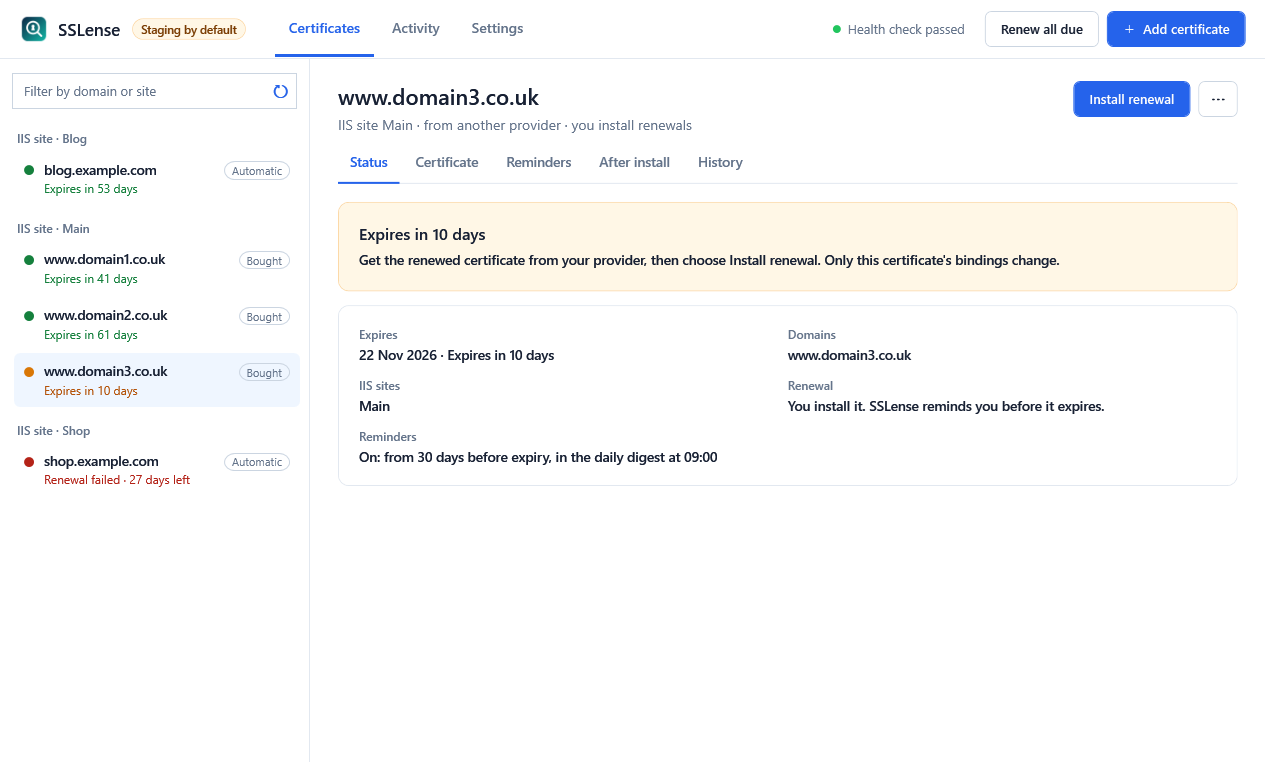
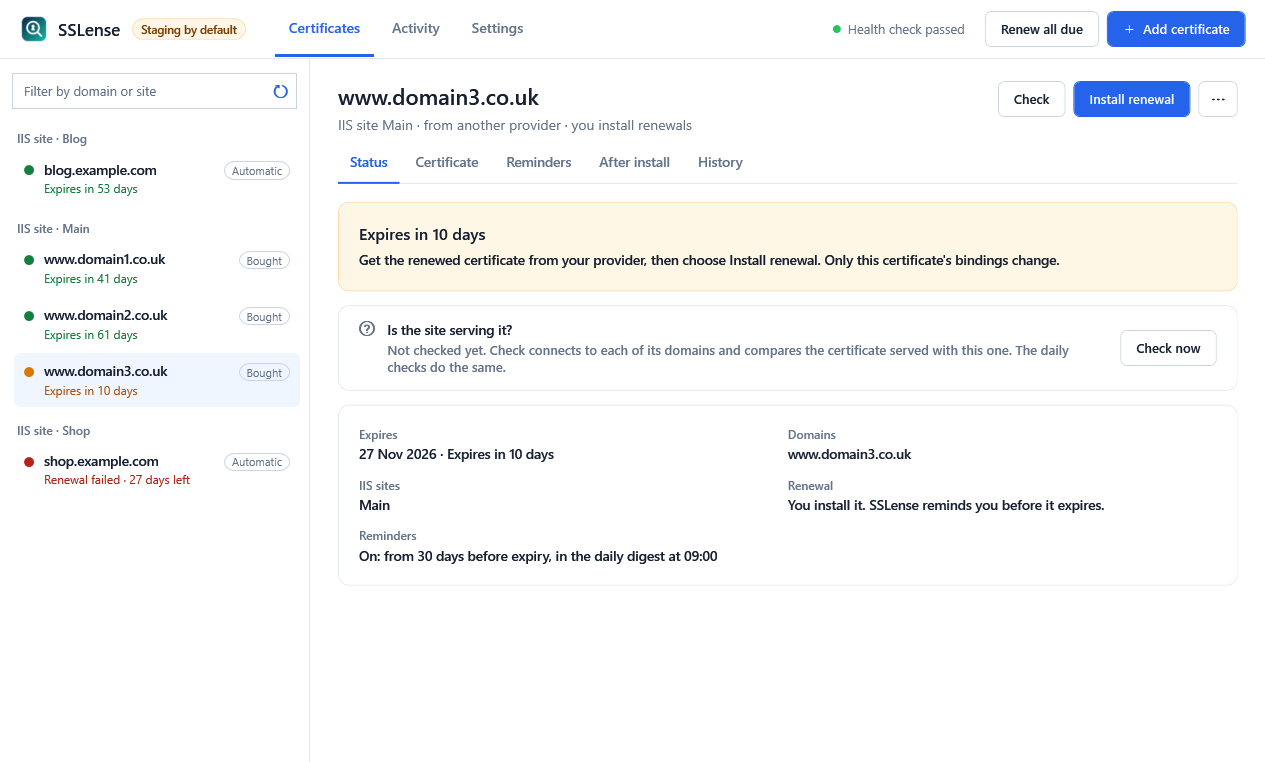
Update the README screenshots to the new window
The README showed the old side-menu window for Settings and Add
certificate (free and automatic), and the certificate view without Check.
The images are now rendered by the screenshot test from sample
certificates, and Install renewal has its own.

The screenshot test now waits for the certificate and its reminders to
load before saving an image, waits for each reminder choice to be saved
rather than for the busy flag, which could still be clear, and gives
Settings the notification and reminder data it reads, so it shows no
error. Quick start says Check, not pre-flight checks.

diff --git a/tests/SSLense.Tests/Gui/GuiScreenshotTests.cs b/tests/SSLense.Tests/Gui/GuiScreenshotTests.cs
@@ -54,12 +54,12 @@ public sealed class GuiScreenshotTests(ITestOutputHelper output)
             Save(window, folder, "01-certificates-summary");
 
             certificates.SelectedCertificate = certificates.Certificates.Single(row => row.Title == "www.domain3.co.uk");
-            Settle();
+            WaitForDetails(certificates.Details);
             Assert.Equal("Main/www.domain3.co.uk", certificates.Details.SelectedSite);
             Save(window, folder, "02-certificate-bought-due");
 
             certificates.SelectedCertificate = certificates.Certificates.Single(row => row.Title == "shop.example.com");
-            Settle();
+            WaitForDetails(certificates.Details);
             Save(window, folder, "03-certificate-renewal-failed");
 
             SelectSection(window, "Certificate");
@@ -69,11 +69,11 @@ public sealed class GuiScreenshotTests(ITestOutputHelper output)
             SelectSection(window, "Reminders");
             Save(window, folder, "05b-reminders-section");
             ClickReminder(window, 3);
-            WaitFor(() => !certificates.Details.IsBusy);
+            WaitFor(() => !certificates.Details.IsBusy && ReminderList(window).SelectedIndex == 3 && certificates.Details.ReminderState.Contains("Off until", StringComparison.Ordinal));
             Assert.Equal(3, ReminderList(window).SelectedIndex);
             Assert.Contains("Off until", certificates.Details.ReminderState, StringComparison.Ordinal);
             ClickReminder(window, 1);
-            WaitFor(() => !certificates.Details.IsBusy);
+            WaitFor(() => !certificates.Details.IsBusy && ReminderList(window).SelectedIndex == 1 && certificates.Details.ReminderState.Contains("Snoozed until", StringComparison.Ordinal));
             Assert.Equal(1, ReminderList(window).SelectedIndex);
             Assert.Contains("Snoozed until", certificates.Details.ReminderState, StringComparison.Ordinal);
             Assert.Null(certificates.Details.ErrorMessage);
@@ -111,6 +111,10 @@ public sealed class GuiScreenshotTests(ITestOutputHelper output)
             provider.GetRequiredService<SettingsViewModel>().ShowSection("Notifications");
             Settle();
             Save(window, folder, "07b-settings-notifications");
+            provider.GetRequiredService<SettingsViewModel>().ShowSection("Reminders");
+            Settle();
+            Assert.Null(provider.GetRequiredService<SettingsViewModel>().ErrorMessage);
+            Save(window, folder, "07e-settings-reminders");
             provider.GetRequiredService<SettingsViewModel>().ShowSection("Certificate authorities");
             Settle();
             Save(window, folder, "07c-settings-authorities");
@@ -158,6 +162,10 @@ public sealed class GuiScreenshotTests(ITestOutputHelper output)
         });
         output.WriteLine($"Screens saved to {folder}");
     }
+
+    /// <summary>Waits until the selected certificate and its reminders have loaded, so an image shows them.</summary>
+    private static void WaitForDetails(CertificateDetailsViewModel details) =>
+        WaitFor(() => !details.IsBusy && !string.IsNullOrEmpty(details.ReminderState));
 
     private static ListBox ReminderList(Window window) =>
         Find<ListBox>(window).Single(list => list.IsVisible && System.Windows.Automation.AutomationProperties.GetName(list) == "Reminders for this certificate");
@@ -255,6 +263,8 @@ public sealed class GuiScreenshotTests(ITestOutputHelper output)
         // Saves like the real store: the next overview shows the new setting.
         reminders.Setup(value => value.GetOverviewAsync(It.IsAny<CancellationToken>()))
             .Returns(async () => { await Task.Delay(40); return new ReminderOverview(new ReminderConfig(), records.ToArray(), null); });
+        reminders.Setup(value => value.GetOutlookAsync(It.IsAny<CancellationToken>()))
+            .ReturnsAsync(() => new ReminderOutlook(Now.AddMinutes(-20), Now.Date.AddDays(1).AddHours(9), Now.Date.AddDays(1).AddHours(9), []));
         reminders.Setup(value => value.SetCertificateRemindersAsync(It.IsAny<string>(), It.IsAny<ReminderMode>(), It.IsAny<int?>(), It.IsAny<CancellationToken>()))
             .Callback<string, ReminderMode, int?, CancellationToken>((name, mode, days, _) =>
             {
@@ -307,8 +317,15 @@ public sealed class GuiScreenshotTests(ITestOutputHelper output)
         ]);
         services.AddSingleton(dns.Object);
         var settings = new Mock<ISettingsService> { DefaultValue = DefaultValue.Mock };
-        settings.Setup(value => value.GetAsync(It.IsAny<CancellationToken>())).ReturnsAsync(new AppConfig());
+        settings.Setup(value => value.GetAsync(It.IsAny<CancellationToken>())).ReturnsAsync(new AppConfig { DefaultEmail = "ops@example.com" });
         services.AddSingleton(settings.Object);
+        var notifications = new Mock<SSLense.Core.Notifications.INotificationSettingsService> { DefaultValue = DefaultValue.Mock };
+        notifications.Setup(value => value.GetOverviewAsync(It.IsAny<CancellationToken>())).ReturnsAsync(
+            new SSLense.Core.Notifications.NotificationOverview(
+                new SSLense.Core.Notifications.EmailOverview("smtp.example.com", 587, SmtpSecurity.StartTls, SmtpAuthentication.Password,
+                    "sslense@example.com", true, "sslense@example.com", ["ops@example.com"]),
+                [], null, true, false));
+        services.AddSingleton(notifications.Object);
         var health = new Mock<IHealthCheckService> { DefaultValue = DefaultValue.Mock };
         health.Setup(value => value.RunAsync(It.IsAny<IProgress<SSLense.Core.ProgressEvent>>(), It.IsAny<CancellationToken>())).ReturnsAsync(
         [
@@ -323,7 +340,7 @@ public sealed class GuiScreenshotTests(ITestOutputHelper output)
         services.AddSingleton(deployment.Object);
         services.AddSingleton(health.Object);
 
-        var configured = new HashSet<Type> { typeof(IRenewalService), typeof(ICertificateManagementService), typeof(IReminderService), typeof(IDeploymentService), typeof(IHealthCheckService), typeof(ISettingsService), typeof(IImportedCertificateService), typeof(IPendingRequestStore), typeof(IIisService), typeof(SSLense.Core.Acme.ICertificateAuthorityService), typeof(SSLense.Core.DnsValidation.IDnsProviderService) };
+        var configured = new HashSet<Type> { typeof(IRenewalService), typeof(ICertificateManagementService), typeof(IReminderService), typeof(IDeploymentService), typeof(IHealthCheckService), typeof(ISettingsService), typeof(SSLense.Core.Notifications.INotificationSettingsService), typeof(IImportedCertificateService), typeof(IPendingRequestStore), typeof(IIisService), typeof(SSLense.Core.Acme.ICertificateAuthorityService), typeof(SSLense.Core.DnsValidation.IDnsProviderService) };
         var coreServices = typeof(MainViewModel).Assembly.GetTypes()
             .Where(type => type.Namespace == typeof(MainViewModel).Namespace && type.IsClass && !type.IsAbstract)
             .SelectMany(type => type.GetConstructors())

diff --git a/README.md b/README.md
@@ -28,7 +28,7 @@ SSLense is a Windows application for IIS administrators. It gets free Let's Encr
 1. Download the latest `SSLense-<version>-x64.msi` from [Releases](https://github.com/panchalvimaldev/sslense/releases) and run it on the IIS server. It installs the desktop app, the command line, and the renewal service. No separate .NET installation is needed. Releases are not code-signed yet, so Windows SmartScreen may warn; each release lists a SHA-256 checksum to verify the download.
 2. Open **SSLense** from the Start menu.
 3. Then either:
-   - **Let's Encrypt:** **Add certificate** → **Free and automatic**, choose the site and host names, run the pre-flight checks, and issue. Use staging first; production needs an explicit confirmation. With HTTP validation, the site needs a public DNS record and a port 80 binding. For a wildcard, or without port 80, choose DNS validation; see [DNS validation and wildcard certificates](#dns-validation-and-wildcard-certificates).
+   - **Let's Encrypt:** **Add certificate** → **Free and automatic**, choose the site and host names, choose **Check**, and issue. Use staging first; production needs an explicit confirmation. With HTTP validation, the site needs a public DNS record and a port 80 binding. For a wildcard, or without port 80, choose DNS validation; see [DNS validation and wildcard certificates](#dns-validation-and-wildcard-certificates).
    - **A certificate you bought:** **Add certificate** → **It's already installed in IIS** → tick its HTTPS binding → **Watch**. When it is due, select it and choose **Install renewal**.
 4. Under **Settings**, add an email or chat channel and click **Send test**, then check **Settings → Reminders**.
 
@@ -44,6 +44,10 @@ From then on the service renews Let's Encrypt certificates on its own, and the d
 **Add certificate:** first, where the certificate comes from: free and automatic, bought with its file, bought and the provider needs a request (CSR), or already installed in IIS.
 
 ![Add certificate: where the certificate comes from](docs/images/SSLense-OtherProviders.png)
+
+**Install renewal:** select a bought certificate that is due, choose its new PFX or the provider's certificate, and see what will change. Only that certificate's bindings change, even on a site with several certificates.
+
+![Install renewal: what will change before the certificate is replaced](docs/images/SSLense-InstallRenewal.png)
 
 **Settings → Reminders:** when the daily digest starts, how often it repeats, and when it is sent.
 
